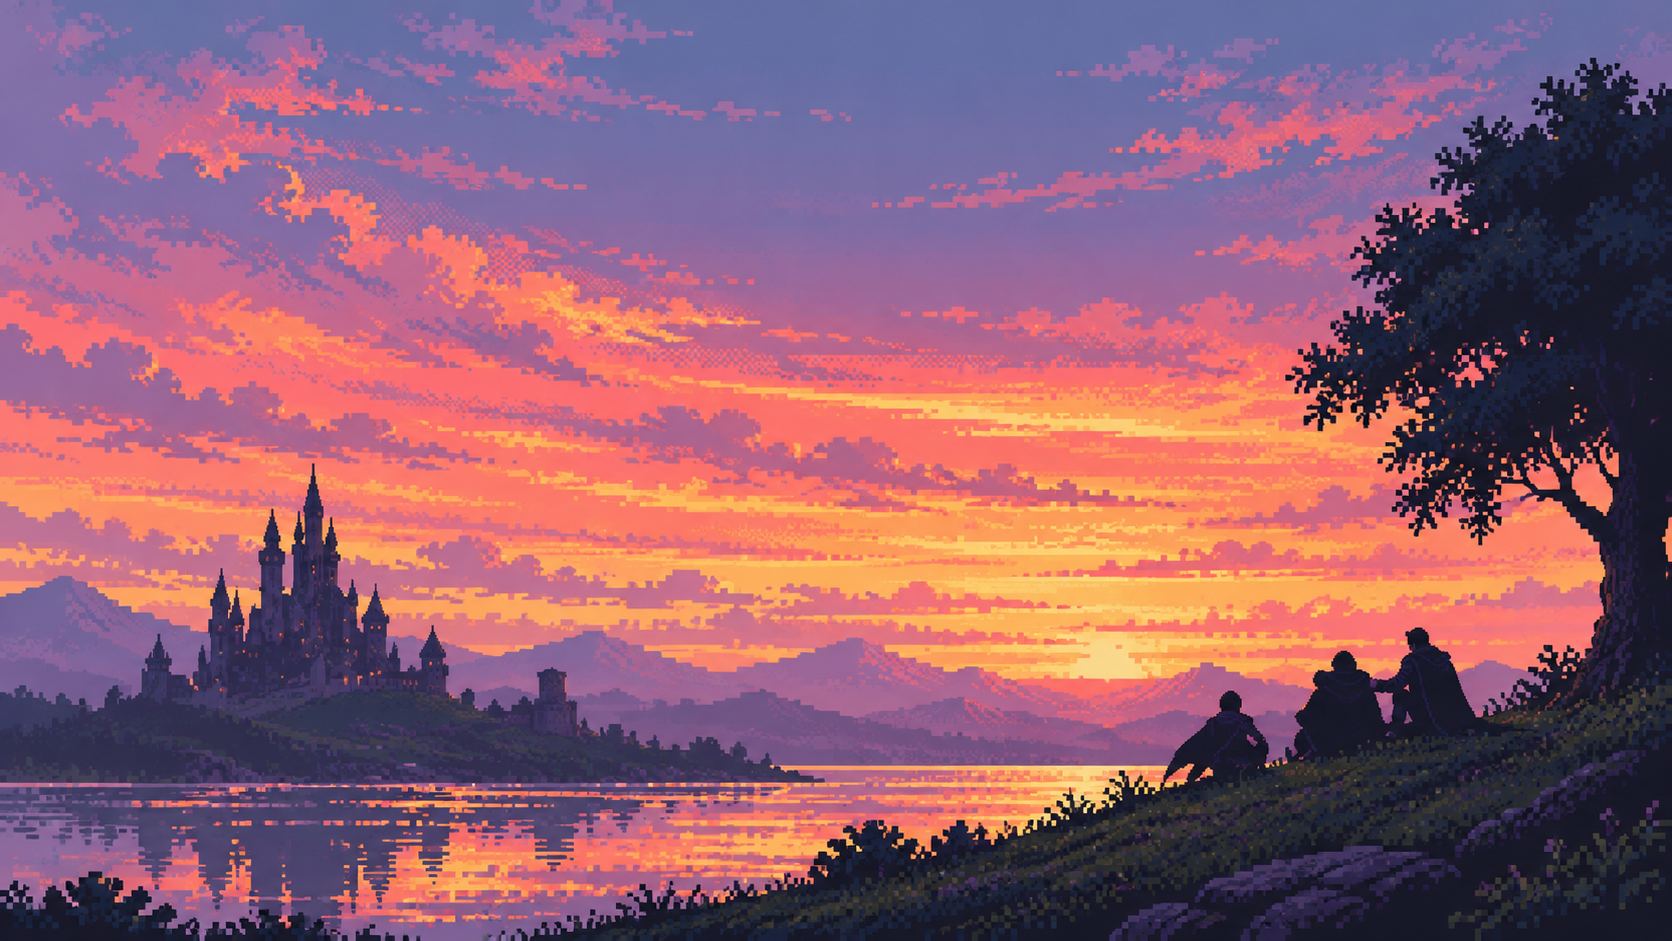
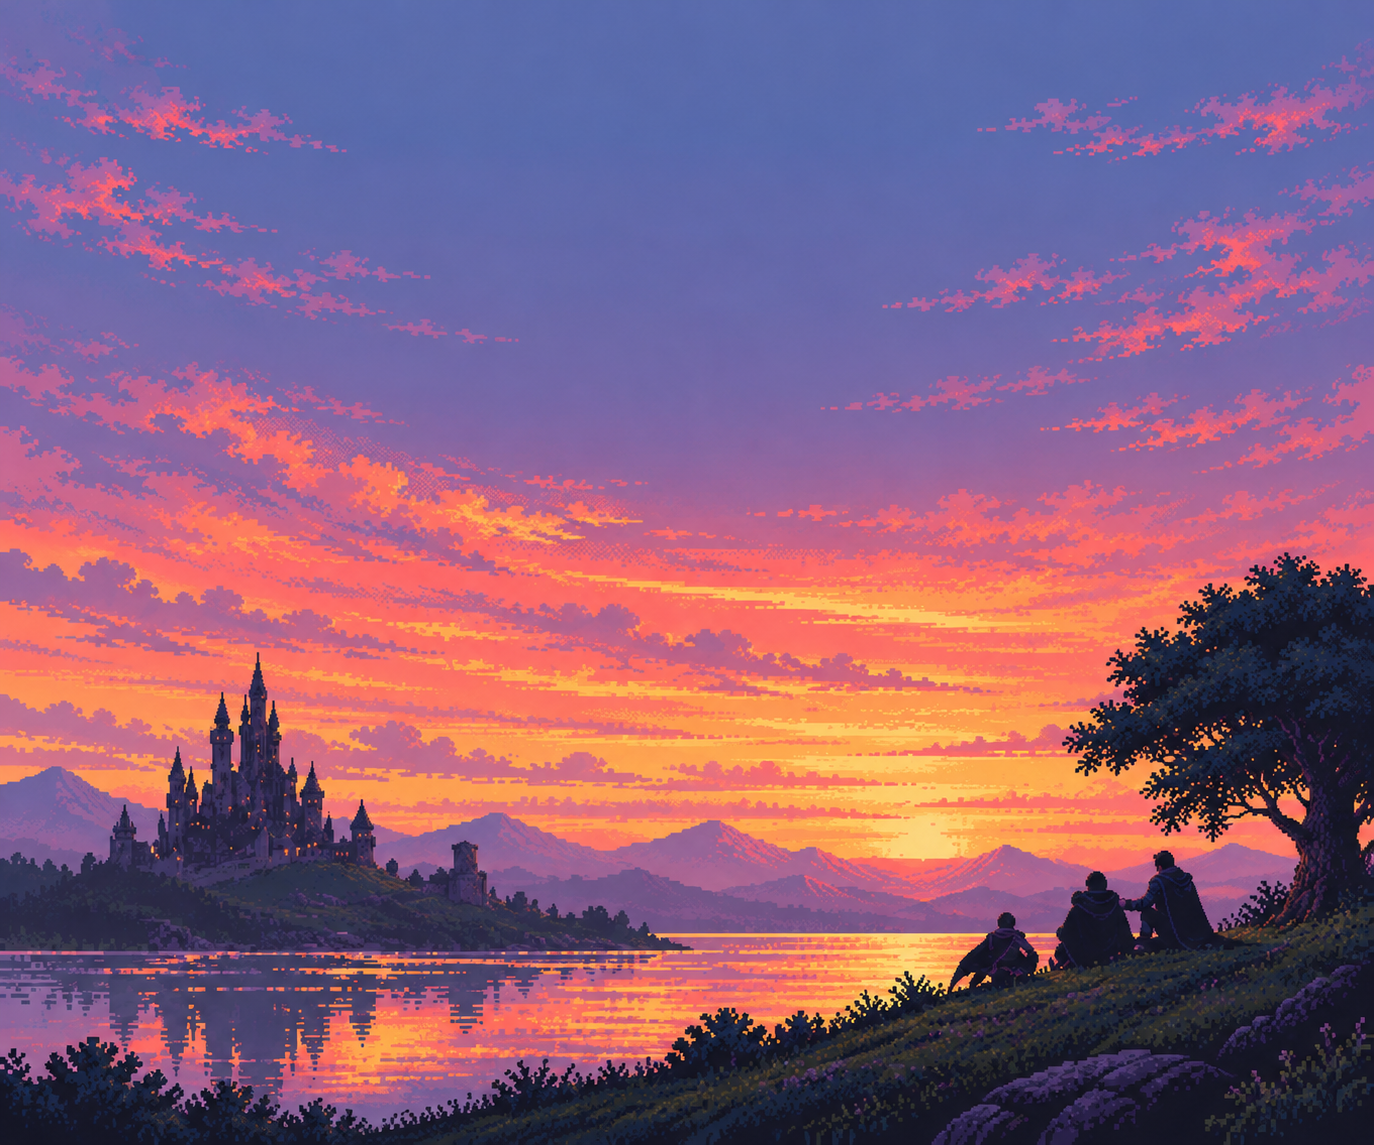
Recompose intro art with a lower tree and preserve the full frame

diff --git a/Assets/Scripts/Prototype/PrototypeIntroPresentation.cs b/Assets/Scripts/Prototype/PrototypeIntroPresentation.cs
@@ -96,8 +96,7 @@ namespace DragonQuest.Prototype
                 GUI.DrawTexture(new Rect(0, 0, Screen.width, Screen.height), Texture2D.whiteTexture);
                 float alpha = sequence.Opacity;
                 GUI.color = new Color(1, 1, 1, alpha);
-                // Cover the entire viewport while keeping the artwork proportional.
-                GUI.DrawTexture(new Rect(0, 0, Screen.width, Screen.height), background, ScaleMode.ScaleAndCrop);
+                DrawContainedBackground();
                 float scale = Mathf.Min(Screen.width / 1280f, Screen.height / 720f);
                 GUI.matrix = Matrix4x4.TRS(new Vector3((Screen.width - 1280 * scale) / 2,
                     (Screen.height - 720 * scale) / 2, 0), Quaternion.identity, new Vector3(scale, scale, 1));
@@ -116,6 +115,30 @@ namespace DragonQuest.Prototype
                 GUI.color = previousColor;
                 GUI.depth = previousDepth;
             }
+        }
+
+        private void DrawContainedBackground()
+        {
+            float scale = Mathf.Min(Screen.width / (float)background.width, Screen.height / (float)background.height);
+            float width = background.width * scale, height = background.height * scale;
+            var frame = new Rect((Screen.width - width) / 2, (Screen.height - height) / 2, width, height);
+            float pixelWidth = 1f / background.width, pixelHeight = 1f / background.height;
+            // Extend only the outermost pixels into spare space; the full composition stays inside the frame.
+            if (frame.y > 0)
+            {
+                GUI.DrawTextureWithTexCoords(new Rect(0, 0, Screen.width, frame.y), background,
+                    new Rect(0, 1 - pixelHeight, 1, pixelHeight), true);
+                GUI.DrawTextureWithTexCoords(new Rect(0, frame.yMax, Screen.width, Screen.height - frame.yMax), background,
+                    new Rect(0, 0, 1, pixelHeight), true);
+            }
+            if (frame.x > 0)
+            {
+                GUI.DrawTextureWithTexCoords(new Rect(0, 0, frame.x, Screen.height), background,
+                    new Rect(0, 0, pixelWidth, 1), true);
+                GUI.DrawTextureWithTexCoords(new Rect(frame.xMax, 0, Screen.width - frame.xMax, Screen.height), background,
+                    new Rect(1 - pixelWidth, 0, pixelWidth, 1), true);
+            }
+            GUI.DrawTexture(frame, background, ScaleMode.ScaleToFit, true);
         }
 
         private void DrawBirds(float alpha)

diff --git a/Docs/INTRO_IMAGE_PROMPTS.md b/Docs/INTRO_IMAGE_PROMPTS.md
@@ -2,16 +2,20 @@
 
 Ferramenta: imagegen integrada. Referência: imagem anexada pelo usuário nesta atividade.
 
-## Paisagem
+## Paisagem atual — enquadramento 6:5 e árvore mais baixa
+
+Entrada de edição: a paisagem anterior, preservada no histórico do commit `12eab36`. Saída integrada: `Assets/Resources/PixelArt/Intro/Sunset.png`, 1374 × 1145. Ferramenta imagegen integrada, sem CLI.
 
 ```text
-Use case: stylized-concept.
-Asset type: production background plate for the opening cinematic of a Unity pixel-art JRPG, landscape 16:9, ideally 1536x864.
-Input image: the user's attached image is a composition, palette and mood REFERENCE, not an edit target.
-Primary request: Reimagine this reference as exquisite hand-crafted 16-bit pixel art. Sweeping coral, peach and golden sunset under lavender and blue-gray cloud bands. A distant dark medieval castle with elegant pointed towers on the lower left across a lake. Three small adventurer silhouettes seated on a sloping dark grassy hill in the lower right, looking toward the castle; a large tree silhouettes the right edge. Warm luminous horizontal clouds reflected in the water, layered distant mountains, nostalgic quiet fantasy mood.
-Composition: wide landscape adaptation of the reference. Keep the upper-middle central sky open and calm, with generous negative space for a game title added in-engine. Foreground and castle occupy the bottom third, tall tree at right edge, richly composed sky.
-Style: true crisp pixel art with a coherent coarse pixel grid like a 640x360 scene displayed at integer scale, deliberate stepped clusters, selective dithering, limited harmonious palette. Detailed but readable silhouettes, strong graphic composition.
-Constraints: background image only. NO birds anywhere (birds are separate animated game sprites), NO text, NO lettering, NO title, NO logo, NO watermark, NO UI, NO borders. Do not reproduce the words in the reference. No painterly brushstrokes, smooth gradients, blurry edges or vector rendering. Opaque full-bleed image.
+Use case: precise-object-edit.
+Asset type: revised production background plate for a Unity pixel-art JRPG intro, composed to be shown ENTIRELY within the game frame.
+Input image 1: EDIT TARGET, the current sunset background. Keep its scene, palette, pixel-art style and overall identity.
+Primary request: Recompose this landscape into a 6:5 canvas, ideally 1440x1200, to fit the taller game frame WITHOUT any zoom or cropping. Preserve the COMPLETE castle on the lower left, lake and reflection, mountains, three small adventurers on the lower-right hill, and a tree at the right. Reflow their spacing for the new canvas; do not crop a wider image into this ratio.
+CRITICAL TREE CHANGE: make the tree much SHORTER. The very highest leaf of its canopy must be at or BELOW 44 percent of the image height measured down from the top. Absolutely no branches or leaves anywhere in the upper 40 percent of the image. The whole tree canopy must fit within the right side of the frame, ending well below the separate game-title area. Its trunk rises naturally from the bottom-right hill; keep the three adventurers visible beside it.
+Title-safe space: the whole upper 35-40 percent is unobstructed lavender/blue-gray sunset sky with soft horizontal pixel cloud bands and a calm, lighter central region where a BLACK title will be added in-engine. Do not draw the title. No trees or castle towers in this upper area.
+Composition: entire main subjects comfortably inside the image borders with breathing room: full castle silhouette at lower left, entire group of three heroes at lower right, complete canopy of the smaller tree at lower right. Keep the horizon and warm coral/peach/gold sunset across the lower-middle, lake reflection at bottom-left and dark foreground slope at bottom-right. Keep the extreme top edge quiet and evenly colored lavender sky; a thin uninterrupted dark foreground ground silhouette can meet the bottom edge. Compose the scene to look complete as-is.
+Style: retain the precise existing 16-bit JRPG pixel-art look, deliberate stepped pixel clusters, limited harmonious lavender, salmon, orange, gold and dark-navy palette. Crisp coherent square pixel grid; no painterly brush strokes or blur.
+Constraints: opaque full-bleed scene, NO text, NO logo, NO UI, NO borders or black letterbox bars, NO birds (birds remain separate animated sprites in Unity), NO added characters, no cropped subjects. Exactly three existing adventurers. Preserve the peaceful nostalgic mood.
 ```
 
 ## Pássaros

diff --git a/Docs/INTRO_PIXEL_ART.md b/Docs/INTRO_PIXEL_ART.md
@@ -2,7 +2,7 @@
 
 A cena `CidadePrototipo` abre com a paisagem antes do menu `New game / Continue`. O controle do jogador permanece bloqueado pelo menu durante a abertura.
 
-- Paisagem: fade-in de 3,2 segundos e preenchimento de toda a janela, sem faixas pretas. A imagem mantém a proporção e recorta o excedente quando a proporção da tela difere da arte; título e instrução permanecem dentro da área visível.
+- Paisagem: fade-in de 3,2 segundos. A arte em 6:5 foi recomposta para o frame mais alto do Game view, com a árvore terminando abaixo do título. A imagem é sempre exibida inteira, com escala proporcional e sem recorte ou zoom; se a janela tiver outra proporção, somente os pixels das bordas se estendem pelo espaço excedente, sem cortar ou deformar a composição.
 - Título `DRAGON QUEST`: começa em 2,6 segundos e aparece letra por letra em posições fixas, usando Pixel Operator Bold.
 - Oito pássaros independentes percorrem o céu, com seis sprites de bater de asas, tamanhos, velocidades e fases diferentes. Não existem pássaros pintados no fundo.
 - A abertura permanece na tela, com os pássaros animados, até o jogador pressionar para continuar.
@@ -13,20 +13,20 @@ A cena `CidadePrototipo` abre com a paisagem antes do menu `New game / Continue`
 
 ## Assets
 
-- `Assets/Resources/PixelArt/Intro/Sunset.png`: fundo opaco, 1672 × 941.
+- `Assets/Resources/PixelArt/Intro/Sunset.png`: fundo opaco, 1374 × 1145, proporção 6:5; castelo, lago, três aventureiros e árvore mais baixa foram recompostos para caber na imagem inteira.
 - `Assets/Resources/PixelArt/Intro/BirdFlight.png`: atlas RGBA, 2172 × 724, seis células horizontais de 362 × 724. As margens transparentes preservam o alinhamento da animação.
 - Texturas com Point, sem mipmaps, sem compressão e sem redimensionamento para potência de dois.
 
-Arte gerada com a ferramenta integrada **imagegen**, usando a imagem anexada pelo usuário como referência visual para o fundo. O título é texto do jogo, não está gravado na imagem.
+Arte gerada com a ferramenta integrada **imagegen**, usando a imagem anexada pelo usuário como referência visual e a primeira paisagem como entrada para a revisão do enquadramento e da árvore. O título é texto do jogo, não está gravado na imagem.
 
 ## Validação
 
 Execute `Tools/Test-Intro.ps1` para os testes de fade, título, permanência da abertura e continuação manual em diferentes momentos. Execute `Tools/Test-UnityScripts.ps1` para compilar todos os scripts contra as bibliotecas da Unity e `Tools/Test-Saves.ps1` para verificar a persistência existente.
 
-Na revisão do fade-in e da continuação manual, os testes existentes foram alinhados ao novo comportamento. Testes e compilação não foram executados, conforme solicitado pelo usuário; a revisão foi feita pelo diff.
+Na revisão do fade-in e da continuação manual, os testes existentes foram alinhados ao novo comportamento. Nesta revisão do enquadramento, a arte foi inspecionada visualmente e as alterações foram revisadas pelo diff; testes e compilação não foram executados, mantendo a preferência do usuário.
 
 Em Play, aguarde sem pressionar nada e observe que a abertura permanece visível; depois pressione para continuar e observe o fade-out. Repita continuando durante o fade-in. Mantenha Enter ou o mouse pressionado durante a transição: o menu deve esperar a liberação sem selecionar uma opção. Confira também `New game`, retorno dos slots, `Continue` e as proporções 16:9 e 4:3.
 
 ## Prompts finais
 
-Os dois prompts completos usados pela ferramenta estão em `INTRO_IMAGE_PROMPTS.md`.
+Os prompts completos da paisagem atual e dos pássaros estão em `INTRO_IMAGE_PROMPTS.md`.
